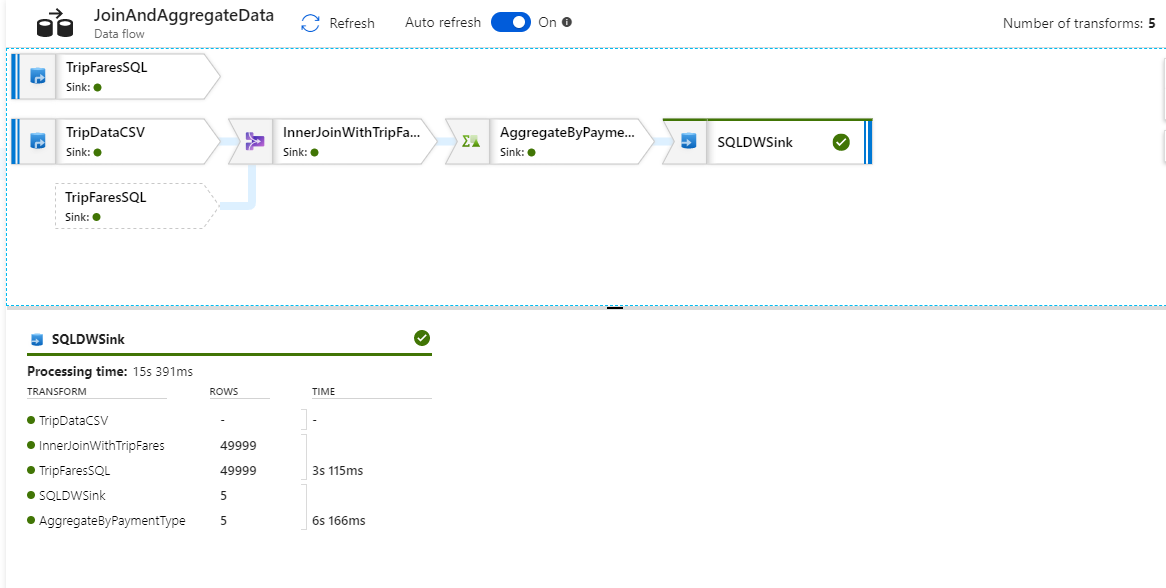
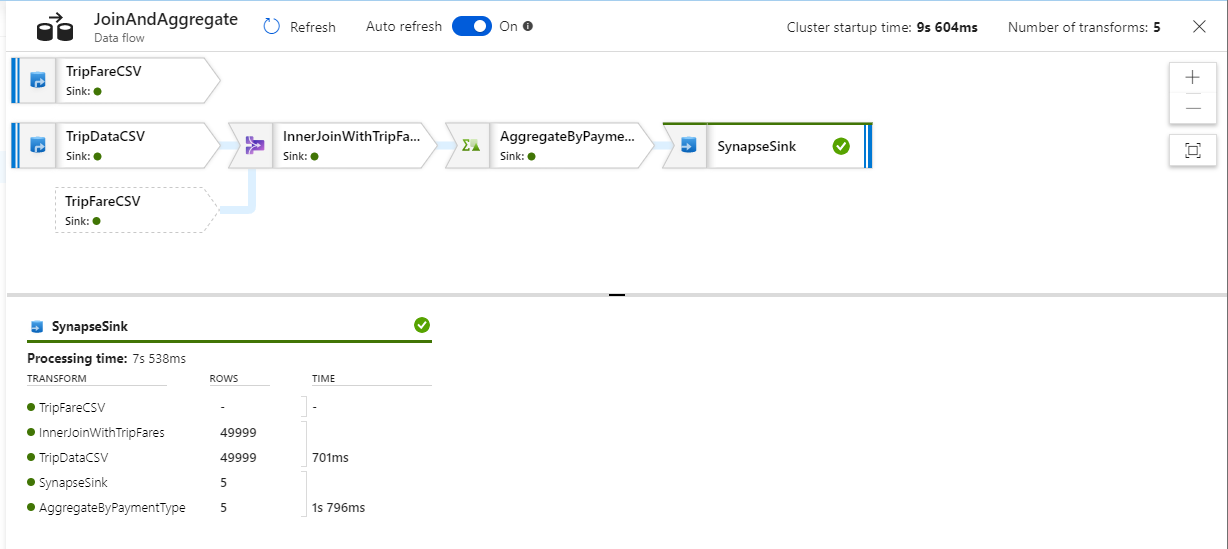
finishing lab;

diff --git a/Data integration using Azure Data Factory and Azure Data Share.md b/Data integration using Azure Data Factory and Azure Data Share.md
@@ -238,7 +238,7 @@ In Azure Data Factory, linked services define the connection information to exte
 1. Repeat the same process to add an Azure Synapse Analytics linked service. In the connections tab, click **New**. Select the **Azure Synapse Analytics (formerly SQL DW)** tile and click continue.
 
     ![Portal](./assets/images/configure6.png)
-1. In the linked service configuration pane, enter 'SQLDW' as your linked service name. Enter in your credentials to allow data factory to connect to your database. If you're using SQL authentication, enter in the server name, the database, your user name and password. You can verify your connection information is correct by clicking **Test connection**. Click **Create** when finished.
+1. In the linked service configuration pane, enter 'Synapse' as your linked service name. Enter in your credentials to allow data factory to connect to your database. If you're using SQL authentication, enter in the server name, the database, your user name and password. You can verify your connection information is correct by clicking **Test connection**. Click **Create** when finished.
 
     ![Portal](./assets/images/configure7.png)
 
@@ -443,18 +443,23 @@ The data flow created in this step inner joins the 'TripDataCSV' dataset created
 1. Call your dataset 'AggregatedTaxiData'. Select 'Synapse' as your linked service. Select **Create new table** and name the new table dbo.AggregateTaxiData. Click OK when finished
 
     ![Portal](./assets/images/sink4.png)
-1. Go to the **Settings** tab of the sink. Since we are creating a new table, we need to select **Recreate table** under table action. Select **Enable staging** which toggles whether we are inserting row-by-row or in batch using PolyBase.
+1. After creating your dataset, there are no further changes you need to make your sink! In the **Settings** tab, you will notice that by default the only update method selected is **Allow insert** which means all rows will be inserted to the table. In conjunction with an alter row transformation, you can tag certain rows as delete, upsert, or update as well. **Enable staging** is also enabled by default which allows for the data flow to utilize Synapse's PolyBase technology for performant loading.
 
     ![Portal](./assets/images/sink5.png)
 
-You have successfully created your data flow. Now its time to run it in a pipeline activity.
+You have successfully created your data flow. Now its time to operationalize it in our pipeline.
 
 ### Debug your pipeline end-to-end
 
 1. Go back to the tab for the **IngestAndTransformData** pipeline. Notice the green box on the 'IngestIntoADLS' copy activity. Drag it over to the 'JoinAndAggregateData' data flow activity. This creates an 'on success' which causes the data flow activity to only run if the copy is successful.
 
     ![Portal](./assets/images/pipeline1.png)
+1. Since we are using PolyBase to write to data warehouse, we need to specify a staging location in data lake storage. In the **Settings** tab of the mapping data flow activity, expand the PolyBase accordion. Select 'ADLSGen2' for the staging linked service. Choose 'sample-data' for your staging container and 'staging' for your staging directory. By default, the data flow is ran on an 8 core general purpose Integration runtime.
+
+    ![Portal](./assets/images/pipeline6.png)
 1. As we did for the copy activity, click **Debug** to execute a debug run. For debug runs, the data flow activity will use the active debug cluster instead of spinning up a new cluster. This pipeline will take a little over a minute to execute.
+
+    *Note: A debug pipeline run including a data flow will re-use the existing debug cluster. It will not use your integration runtime configuration to spin up a new cluster*.
 
     ![Portal](./assets/images/pipeline2.png)
 1. Like the copy activity, the data flow has a special monitoring view accessed by the eyeglasses icon on completion of the activity.
@@ -471,16 +476,27 @@ You have successfully created your data flow. Now its time to run it in a pipeli
 
 1. Now that you verified your pipeline run works end-to-end in a debug/sandbox environment, you are ready to publish it against the data factory service. Click **Publish all** to publish your changes. ADF will first run a validation check to make sure all of your resources meet our service requirements. If you receive a failure, a side panel will appear detailing the error.
 
+    ![Portal](./assets/images/publish2.png)
 1. Once you have successfully published your pipeline, you can trigger a pipeline run against the data factory service by clicking **Add trigger**. 
 
+    ![Portal](./assets/images/trigger1.png)
 1. When the trigger menu appears, select **Trigger now**. This will kick off a manual one-time pipeline run. This menu is also where you set up recurring schedule and event-based triggers operationalize your pipeline.
 
+    ![Portal](./assets/images/trigger2.png)
+1. A side panel will appear prompting you to specify parameters. As no parameters have been added, click **Finish** to execute the pipeline.
+
+    ![Portal](./assets/images/trigger3.png)
 1. You can monitor a trigger run by selecting the monitoring icon in left side-bar. By default, Azure Data Factory keeps pipeline run information for 45 days. To persist these metrics for longer, configure your data factory with Azure Monitor.
 
-1. Click on the name of the pipeline you triggered to open up more details on the activity information. Here, you can see details of the pipeline run as you did with the debug run. 
-    
+    ![Portal](./assets/images/trigger4.png)
+1. Click on the name of the pipeline you triggered to open up more details on invidual activity runs.
+
+    ![Portal](./assets/images/trigger5.png)
+1. In the activity runs view, you can see details of the pipeline run as you did with the debug run. 
+
     *Note: Triggered data flows spin up a just-in-time Spark cluster which is terminated once the job is concluded. As a result, each data flow activity run will endure 5-7 minutes of cluster start-up time.*
 
+    ![Portal](./assets/images/trigger6.png)
 You have now completed the data factory portion of this lab. You successfully ran a pipeline that ingested data from Azure SQL Database to Azure Data Lake Storage using the copy activity and then aggregated that data into an Azure Synapse Analytics. You can verify the data was successfully written by looking at the SQL Server itself.
 
 Congratulations, you have reached the end of the lab!
